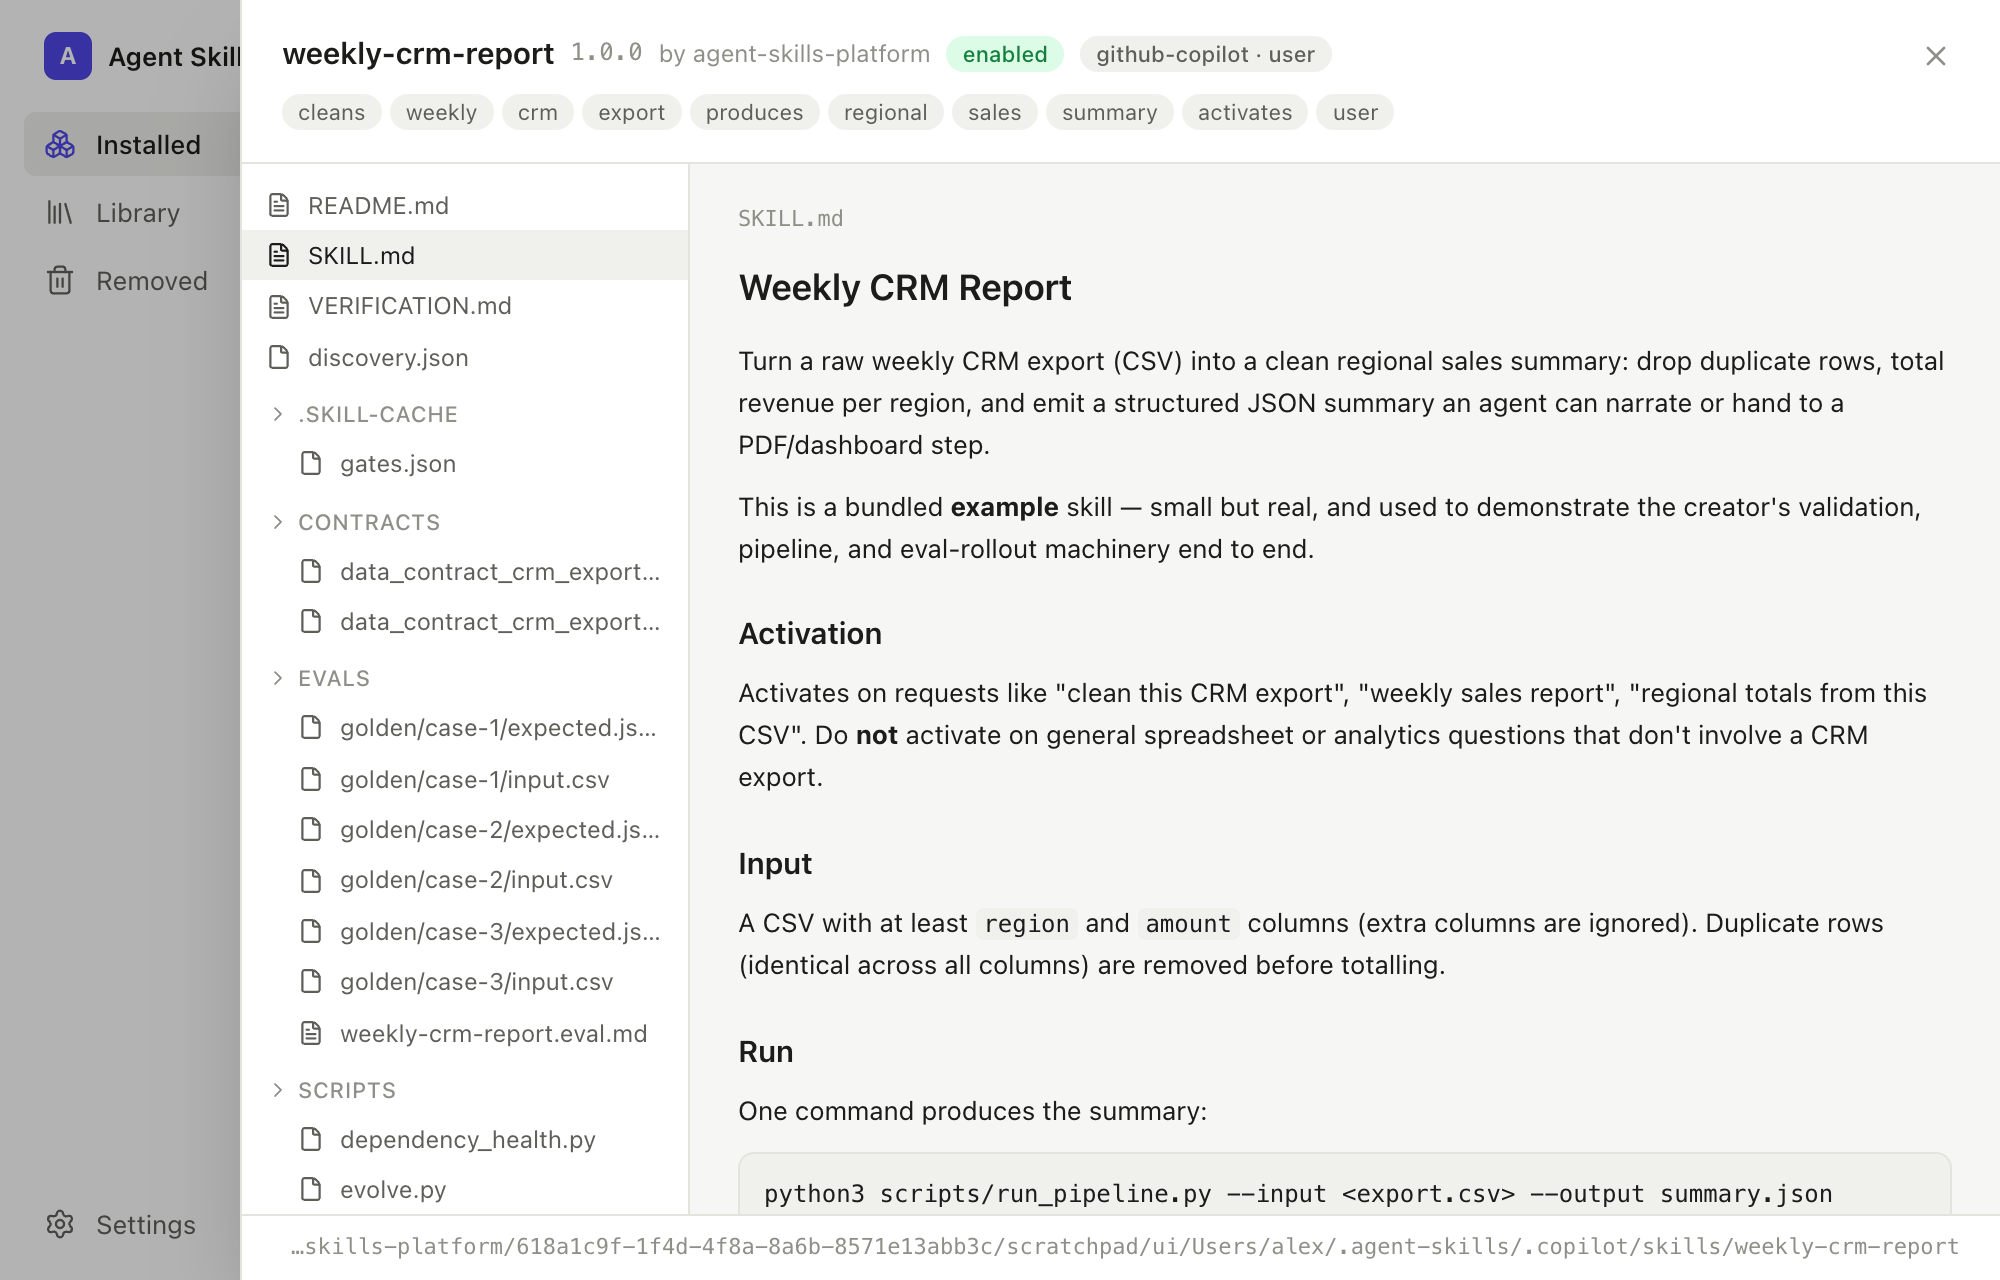
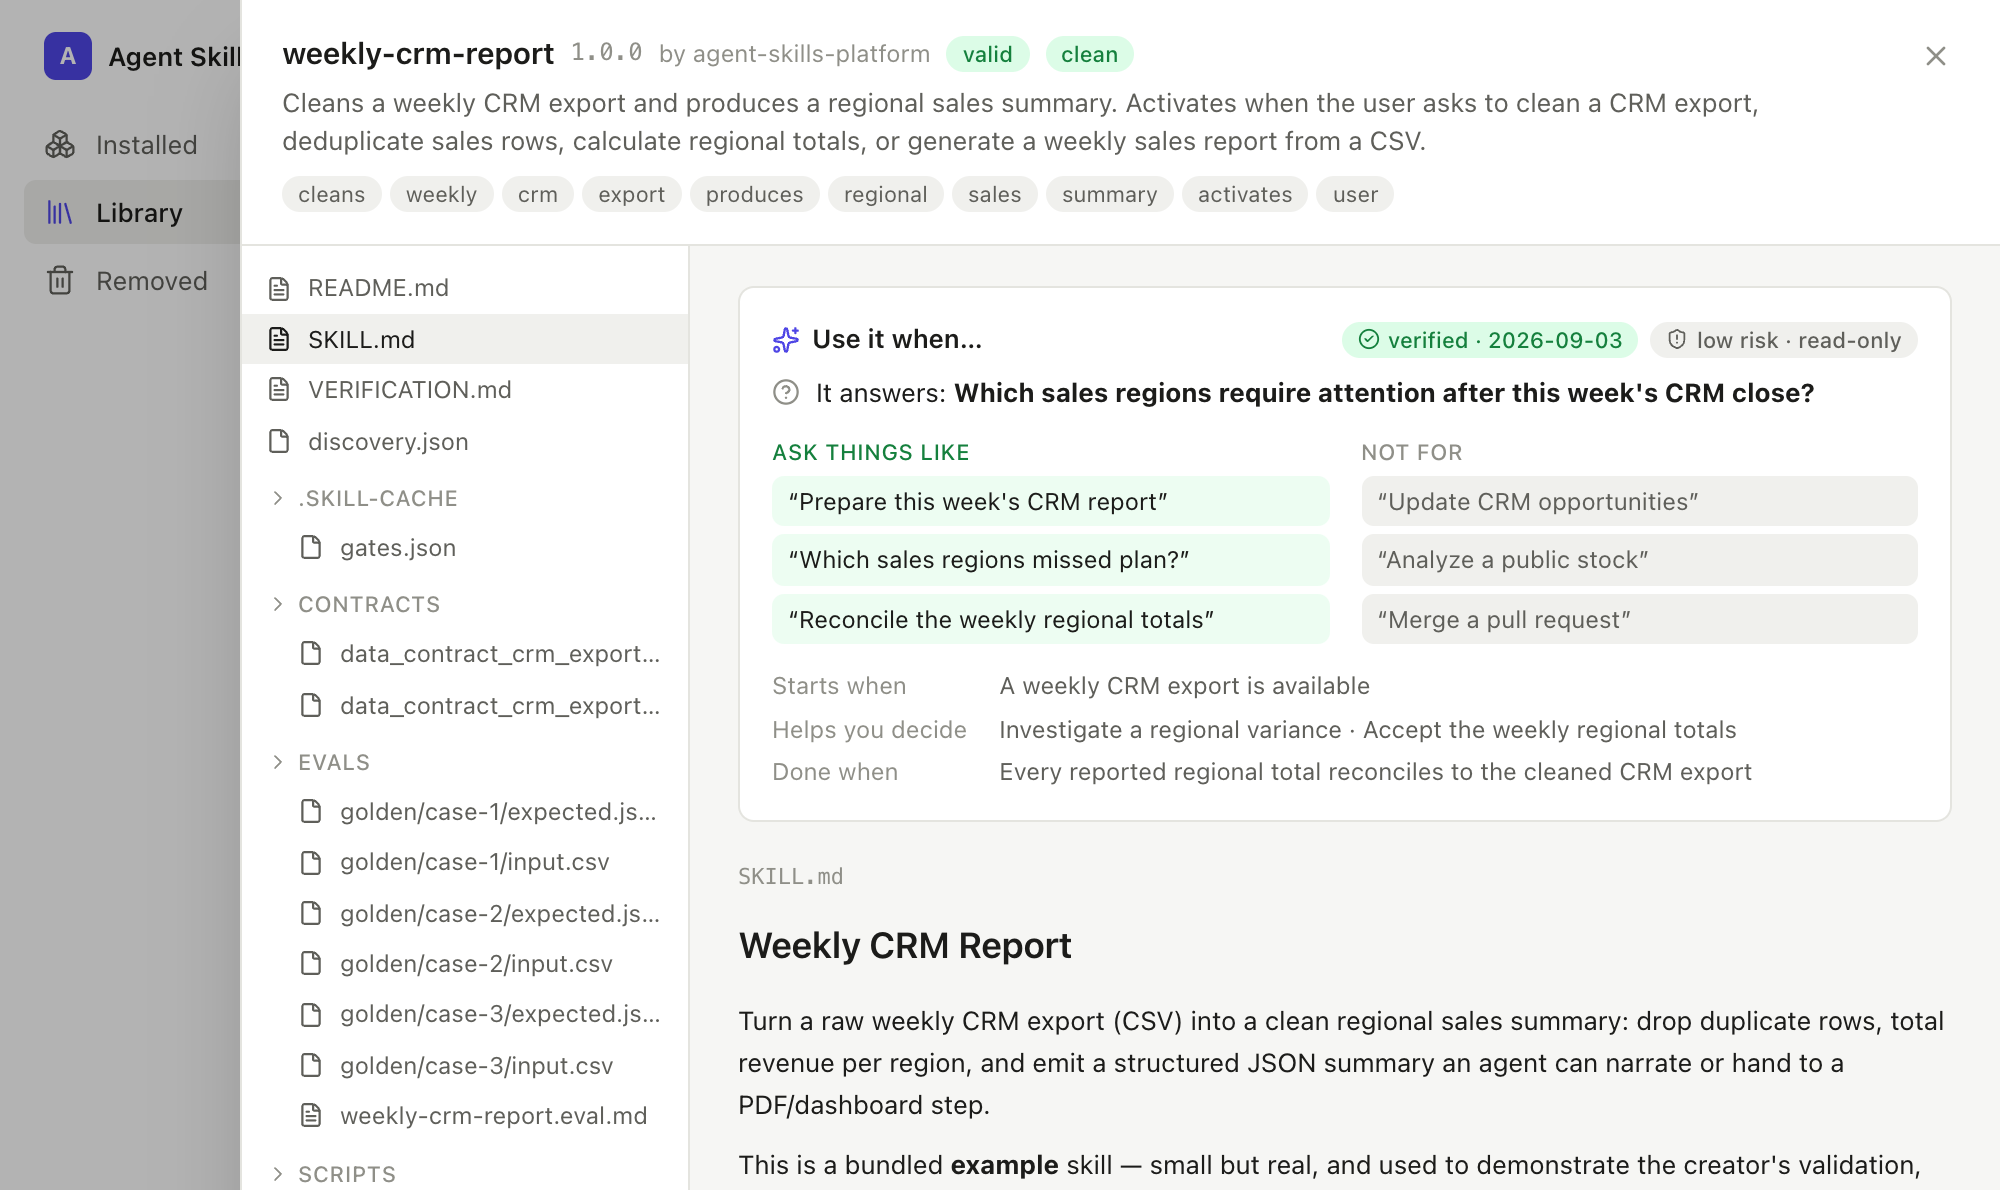
feat(desktop): lead the skill detail view with "Use it when…"
A teammate deciding whether to install a skill needs to know when it
fires, not just what it is. The drawer now opens with the question the
skill answers, the should/should-not-trigger examples, trigger, decisions,
and success measure from discovery.json, plus a verified/failed pill and
generation date parsed from VERIFICATION.md's machine-readable state and
the risk tier. Both files are optional; the block renders what exists.

Claude-Session: https://claude.ai/code/session_01VJzn7e5yjPjbK24ar5RD38

diff --git a/desktop/src/components/UseItWhen.tsx b/desktop/src/components/UseItWhen.tsx
@@ -1,0 +1,105 @@
+// "Use it when…" — what discovery.json says about when a skill fires, plus the
+// verification evidence VERIFICATION.md recorded. Both files are optional; the
+// block renders only what exists.
+import { useEffect, useState } from "react";
+import { CheckCircle2, CircleHelp, ShieldAlert, Sparkles, XCircle } from "lucide-react";
+import { skillFile } from "../lib/cli";
+import { Pill } from "./ui";
+
+interface Discovery {
+  question?: string;
+  trigger?: string[];
+  decision?: string[];
+  success_measure?: string;
+  routing_tests?: { should_trigger?: string[]; should_not_trigger?: string[] };
+  risk?: { tier?: string; mutation_boundary?: string };
+}
+
+interface Verification {
+  clean: boolean;
+  version?: string;
+  generated?: string;
+  evals?: string;
+}
+
+const STATE_RE = /<!--\s*agent-skill-verification:\s*(\{[\s\S]*?\})\s*-->/;
+
+function parseVerification(md: string): Verification | null {
+  const m = md.match(STATE_RE);
+  if (!m) return null;
+  try {
+    const state = JSON.parse(m[1]) as { clean?: boolean; version?: string };
+    return {
+      clean: !!state.clean,
+      version: state.version,
+      generated: md.match(/^Generated:\s*(.+)$/m)?.[1]?.slice(0, 10),
+      evals: md.match(/Eval rollout:\s*(.+)$/m)?.[1],
+    };
+  } catch {
+    return null;
+  }
+}
+
+export function UseItWhen({ dir }: { dir: string }) {
+  const [discovery, setDiscovery] = useState<Discovery | null>(null);
+  const [verification, setVerification] = useState<Verification | null>(null);
+
+  useEffect(() => {
+    setDiscovery(null);
+    setVerification(null);
+    skillFile(dir, "discovery.json").then((t) => setDiscovery(JSON.parse(t) as Discovery)).catch(() => setDiscovery(null));
+    skillFile(dir, "VERIFICATION.md").then((t) => setVerification(parseVerification(t))).catch(() => setVerification(null));
+  }, [dir]);
+
+  if (!discovery && !verification) return null;
+  const yes = discovery?.routing_tests?.should_trigger ?? [];
+  const no = discovery?.routing_tests?.should_not_trigger ?? [];
+
+  return (
+    <section className="mb-5 rounded-lg border border-line bg-surface p-4">
+      <div className="flex flex-wrap items-center gap-2">
+        <h3 className="flex items-center gap-1.5 text-[13px] font-semibold"><Sparkles size={14} className="text-accent" /> Use it when…</h3>
+        <span className="ml-auto flex flex-wrap items-center gap-1.5">
+          {verification && (
+            <Pill tone={verification.clean ? "ok" : "err"} title={verification.evals ? `Evals: ${verification.evals}` : undefined}>
+              {verification.clean ? <CheckCircle2 size={11} className="mr-1 inline" /> : <XCircle size={11} className="mr-1 inline" />}
+              {verification.clean ? "verified" : "verification failed"}{verification.generated ? ` · ${verification.generated}` : ""}
+            </Pill>
+          )}
+          {discovery?.risk?.tier && <Pill tone={discovery.risk.tier === "low" ? "neutral" : "warn"} title={discovery.risk.mutation_boundary ? `Mutation boundary: ${discovery.risk.mutation_boundary}` : undefined}><ShieldAlert size={11} className="mr-1 inline" />{discovery.risk.tier} risk{discovery.risk.mutation_boundary === "read-only" ? " · read-only" : ""}</Pill>}
+        </span>
+      </div>
+
+      {discovery?.question && (
+        <p className="mt-2 flex gap-2 text-ink"><CircleHelp size={14} className="mt-0.5 shrink-0 text-ink-3" /><span>It answers: <strong>{discovery.question}</strong></span></p>
+      )}
+
+      <div className="mt-3 grid gap-4 sm:grid-cols-2">
+        {yes.length > 0 && (
+          <div>
+            <p className="mb-1 text-[11px] font-medium uppercase tracking-wide text-ok">Ask things like</p>
+            <ul className="space-y-1">
+              {yes.map((t) => <li key={t} className="rounded-md bg-ok-bg/50 px-2 py-1 text-[12px] text-ink">“{t}”</li>)}
+            </ul>
+          </div>
+        )}
+        {no.length > 0 && (
+          <div>
+            <p className="mb-1 text-[11px] font-medium uppercase tracking-wide text-ink-3">Not for</p>
+            <ul className="space-y-1">
+              {no.map((t) => <li key={t} className="rounded-md bg-surface-2 px-2 py-1 text-[12px] text-ink-2">“{t}”</li>)}
+            </ul>
+          </div>
+        )}
+      </div>
+
+      {(discovery?.trigger?.length || discovery?.decision?.length || discovery?.success_measure) && (
+        <dl className="mt-3 grid gap-x-4 gap-y-1 text-[12px] sm:grid-cols-[auto_1fr]">
+          {discovery?.trigger?.length ? <><dt className="text-ink-3">Starts when</dt><dd className="text-ink-2">{discovery.trigger.join("; ")}</dd></> : null}
+          {discovery?.decision?.length ? <><dt className="text-ink-3">Helps you decide</dt><dd className="text-ink-2">{discovery.decision.join(" · ")}</dd></> : null}
+          {discovery?.success_measure ? <><dt className="text-ink-3">Done when</dt><dd className="text-ink-2">{discovery.success_measure}</dd></> : null}
+        </dl>
+      )}
+    </section>
+  );
+}

diff --git a/desktop/src/components/SkillDrawer.tsx b/desktop/src/components/SkillDrawer.tsx
@@ -6,6 +6,7 @@ import { ChevronRight, File, FileText, X } from "lucide-react";
 import { clsx } from "clsx";
 import { FileEntry, skillFile, skillFiles } from "../lib/cli";
 import { Pill, TagChips } from "./ui";
+import { UseItWhen } from "./UseItWhen";
 
 export interface DrawerSkill {
   name: string;
@@ -126,6 +127,7 @@ export function SkillDrawer({ skill, onClose, onTag }: Props) {
           </nav>
 
           <div className="min-w-0 flex-1 overflow-y-auto px-6 py-5 selectable">
+            {selected === "SKILL.md" && <UseItWhen dir={skill.dir} />}
             <div className="mb-3 font-mono text-[11px] text-ink-3">{selected}</div>
             {error ? (
               <p className="text-err">{error}</p>

diff --git a/docs/DESKTOP_APP.md b/docs/DESKTOP_APP.md
@@ -27,11 +27,14 @@ with read access — it goes into your system keychain, not the app.
 **Pick where skills go.** "Install skills for" defaults to GitHub Copilot
 (VS Code); tools found on your computer are listed first. Click **Save**.
 
-**Install.** Open **Library**, click a skill to read its `SKILL.md` and browse
-its files, then click **Install**. Restart VS Code and the skill is available
-in Copilot Chat agent mode.
+**Install.** Open **Library** and click a skill. The detail view opens with
+**Use it when…** — the question the skill answers, example requests that
+trigger it, requests it is not for, its risk tier, and whether its
+verification evidence is current — followed by its `SKILL.md` and files. Click
+**Install**, restart VS Code, and the skill is available in Copilot Chat agent
+mode.
 
-![Skill detail drawer showing the file tree and rendered SKILL.md](assets/desktop/drawer.png)
+![Skill detail drawer: "Use it when…" block with example requests, verification and risk pills, then the rendered SKILL.md](assets/desktop/drawer.png)
 
 **Keep it tidy.** **Installed** lists what you have; the switch on each row
 turns a skill off without removing it, and **Update** appears when the library

diff --git a/CHANGELOG.md b/CHANGELOG.md
@@ -21,6 +21,10 @@ to semantic versioning where practical.
   first; screens are named Installed / Library / Removed; a `desktop-v*` tag builds
   signed installers for macOS, Windows, and Linux and the app updates itself from the
   published release. `skill_registry.py` gains a `platforms` subcommand.
+- **Desktop app "Use it when…"**: the skill detail view leads with what
+  `discovery.json` says about when a skill fires — the question it answers, example
+  requests that should and should not trigger it, trigger, decisions, success measure,
+  risk tier — and a verified/failed pill read from `VERIFICATION.md`.
 - **Desktop app redesign**: sidebar navigation with counts, Tailwind 4 tokens for light
   and dark, Lucide icons, Sonner toasts, an enable/disable switch per installed skill
   with hover-revealed actions, native folder pickers in Settings, and a skill detail
